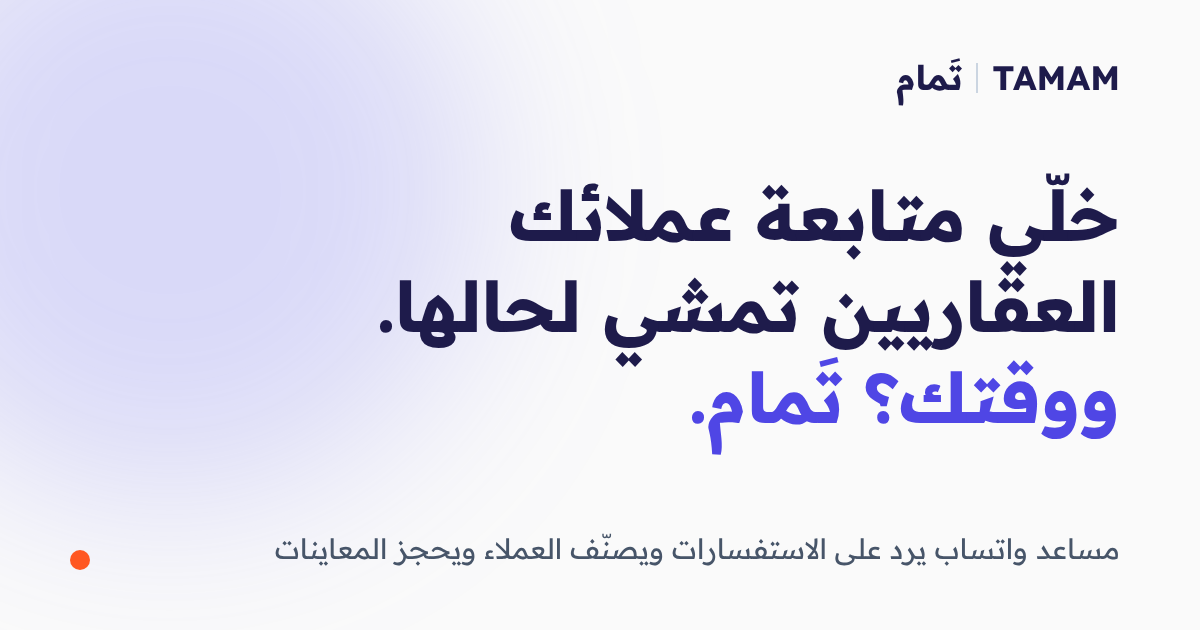
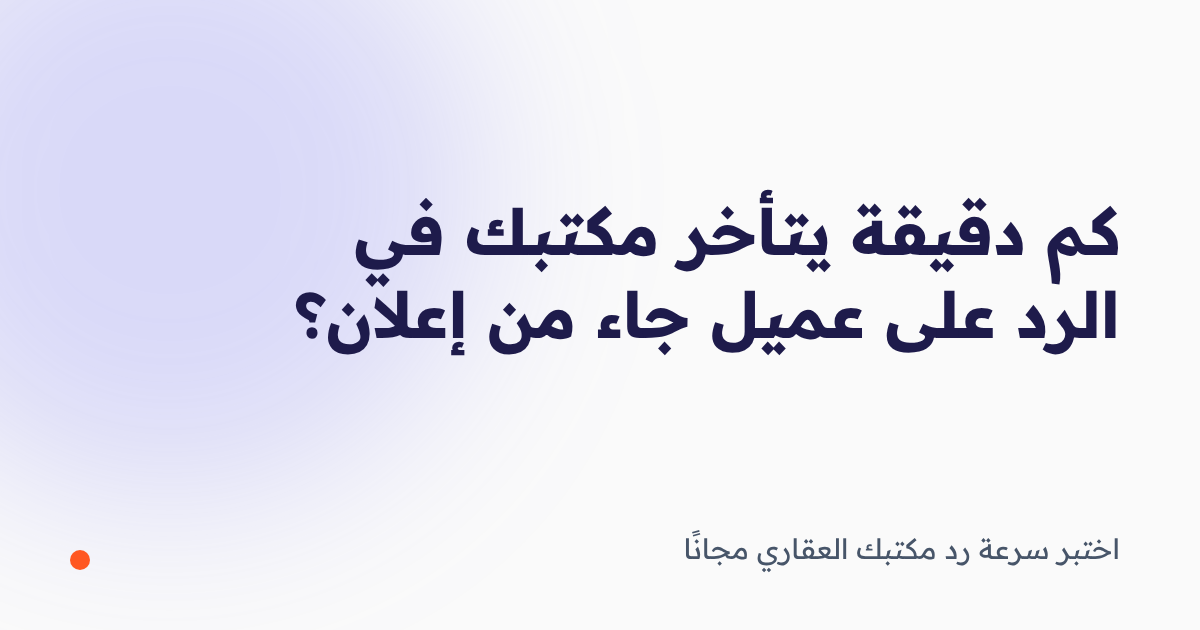
feat(realestate): free response-time test page (speed-to-lead), unbranded; new FreeTestSection

diff --git a/src/niches.ts b/src/niches.ts
@@ -21,12 +21,28 @@ export interface WorkRow {
   ok: boolean;
 }
 
+export interface FreeTest {
+  title: string;
+  sub: string;
+  steps: { title: string; text: string }[];
+  office: { label: string; value: string; note: string };
+  system: { label: string; value: string; note: string };
+  cta: string;
+  note: string;
+}
+
 export interface NicheContent {
   id: NicheId;
   path: string;
   label: string;
   /** Hide the TAMAM brand everywhere on this page (for when there is no company yet). */
   unbranded?: boolean;
+  /** Overrides the main call-to-action label (hero + closing). */
+  primaryCta?: string;
+  /** Hero secondary link: scrolls to a section id instead of opening the solutions drawer. */
+  heroSecondary?: { label: string; target: string };
+  /** Optional "free test" section shown right after the hero. */
+  freeTest?: FreeTest;
   /** Internal note for the links page: who to send this niche to. */
   audience?: string;
   meta: { title: string; description: string; ogImage: string };
@@ -563,112 +579,131 @@ export const NICHES: Record<NicheId, NicheContent> = {
   realestate: {
     id: 'realestate',
     path: '/realestate',
-    label: 'عقارات',
+    label: 'مكاتب عقارية: اختبار سرعة الرد',
+    unbranded: true,
+    audience:
+      'ابعته لمكتب عقاري يدفع على إعلانات أو بوابات عقارية أو سناب، ويجيه عملاء على واتساب. أصعب نقطة هي إقناعه إن عنده مشكلة، فابدأ بعرض الاختبار المجاني وأعطه رقم زمن ردّه.',
     meta: {
-      title: 'TAMAM | تَمام — أتمتة متابعة العملاء للمكاتب العقارية',
+      title: 'اختبر سرعة رد مكتبك العقاري مجانًا',
       description:
-        'مساعد واتساب لمكتبك العقاري يرد على استفسارات العقارات، يصنّف العملاء، ويحجز مواعيد المعاينة — وفريقك يركّز على الصفقات.',
+        'نختبر مجانًا كم دقيقة ياخذ مكتبك يرد على عميل جاي من الإعلان، ونركّب نظامًا يرد خلال ثواني ويسلّم الوسيط عميلًا جاهزًا.',
       ogImage: '/og-realestate.png',
     },
+    primaryCta: 'اختبر مكتبك مجانًا',
+    heroSecondary: { label: 'كيف يشتغل الاختبار؟', target: 'free-test' },
     hero: {
-      line1: 'خلّي متابعة عملائك العقاريين تمشي لحالها.',
-      sub: 'مساعد على واتساب يرد على استفسارات العقارات، يسأل العميل عن ميزانيته ومتطلباته، ويحجز موعد المعاينة — وفريقك يركّز على الصفقات.',
+      line1: 'كم دقيقة يتأخر مكتبك في الرد على عميل جاء من إعلان؟',
+      sub: 'دفعت على الإعلان وجاك العميل، لا تخسره بالرد المتأخر. نختبر لك سرعة ردّكم مجانًا ونعطيك الرقم الحقيقي، وبعدها تقرر.',
     },
     chat: {
       contactName: 'مكتب الأفق',
       avatarLetter: 'أ',
-      clock: '8:50',
-      bookedTitle: 'تم حجز المعاينة',
-      bookedSub: 'وفريقك ما تدخّل',
+      clock: '11:47',
+      bookedTitle: 'وصل الملخص للوسيط',
+      bookedSub: 'إيجار، الملقا، حتى ٥٠ ألف',
       messages: [
-        { from: 'customer', text: 'السلام عليكم، أبغى شقة للإيجار في الرياض، ٣ غرف', time: '٨:٥٠' },
-        { from: 'agent', text: 'وعليكم السلام! عندنا خيارات مناسبة. وش ميزانيتك السنوية تقريبًا؟', time: '٨:٥٠' },
-        { from: 'customer', text: '٤٠ ألف', time: '٨:٥١' },
-        { from: 'agent', text: 'اخترت لك ٣ شقق ضمن ميزانيتك ✓ وحجزنا لك معاينة بكرة ٥:٠٠ مساءً.', time: '٨:٥١' },
+        { from: 'customer', text: 'السلام عليكم، الشقة اللي بالإعلان في الملقا لسا متاحة؟', time: '١١:٤٧' },
+        { from: 'agent', text: 'وعليكم السلام! أهلًا فيك. تبغى إيجار أو شراء؟ وأي حي وكم ميزانيتك؟', time: '١١:٤٧' },
+        { from: 'customer', text: 'إيجار، الملقا، حدود ٥٠ ألف', time: '١١:٤٨' },
+        { from: 'agent', text: 'تم ✓ أرسلت طلبك للوسيط وبيتواصل معك أول ما يتوفر.', time: '١١:٤٨' },
       ],
     },
-    ribbon: ['ردود الاستفسارات', 'تصنيف العملاء', 'حجز المعاينات', 'متابعة العملاء'],
+    ribbon: ['رد خلال ثواني', 'تأهيل العميل', 'ملخص للوسيط', 'تقرير أسبوعي'],
+    freeTest: {
+      title: 'اختبار سرعة الرد: مجاني، وبالرقم',
+      sub: 'ما نشرح لك إن عندك مشكلة، نوريك الرقم.',
+      steps: [
+        { title: 'تعطينا رقم مكتبك', text: 'رقم واتساب مكتبك، أو رابط الإعلان اللي تدفع عليه.' },
+        { title: 'نرسل استفسارًا تجريبيًا', text: 'رسالة مثل أي عميل جاي من الإعلان، بموافقتك، بوقت عادي ووقت متأخر.' },
+        { title: 'نعطيك الرقم', text: 'كم دقيقة أخذ مكتبك ليرد، وكم ثانية ياخذ النظام.' },
+      ],
+      office: { label: 'رد مكتبك الحالي', value: '؟', note: 'نقيسه لك في الاختبار' },
+      system: { label: 'رد النظام', value: 'ثواني', note: 'بأي ساعة، ليل أو نهار' },
+      cta: 'اختبر مكتبك مجانًا',
+      note: 'الاختبار مجاني، وما تدفع شي مقابله.',
+    },
     pain: {
-      title: 'الاستفسارات والمتابعة… تاخذ وقتك من الصفقات',
-      sub: 'نفس الأسئلة عن الأسعار والتفاصيل، وعملاء يسألون وما أحد يتابعهم، وبيانات مبعثرة بين الرسائل والاتصالات — تفاصيل صغيرة تتراكم وتضيّع صفقات.',
-      closing: 'تحوّل هذي الخطوات المتكررة إلى نظام يمشي مع مكتبك.',
+      title: 'دفعت على الإعلان… وخسرت العميل بالرد المتأخر',
+      sub: 'الناس تسأل من الإعلانات والبوابات العقارية وسناب، بس الوسطاء مشغولين بمعاينات واتصالات، فيتأخر الرد. المكتب دفع ثمن العميل وخسره.',
+      closing: 'نحوّل هذي الخطوات المتكررة إلى نظام يرد بسرعة ويسلّم الوسيط عميلًا جاهزًا.',
       items: {
         'endless-messages': {
-          title: 'استفسارات ما تخلص',
-          description: 'أسئلة متكررة عن الأسعار والمواصفات والمواقع، والرد يتأخر لما ينشغل الفريق.',
-          indicator: 'استفسارات متكررة',
+          title: 'الرد يتأخر لأن الوسيط في معاينة',
+          description: 'الوسطاء بين معاينات واتصالات، والرسالة تنتظر ساعات.',
+          indicator: 'رد متأخر',
         },
         'missed-followups': {
-          title: 'عملاء يسألون وما ينتابعون',
-          description: 'عميل مهتم سأل عن عقار وما انتابع معه، فاشترى من مكتب ثاني.',
-          indicator: 'فرص معلّقة',
+          title: 'العميل يروح لمكتب ثاني',
+          description: 'دفعت على الإعلان وجاك العميل، وتأخر الرد فراح لمكتب أسرع.',
+          indicator: 'عميل ضايع',
         },
         'repetitive-tasks': {
-          title: 'ترتيب المعاينات يدويًا',
-          description: 'التنسيق مع كل عميل على موعد المعاينة والتذكير به يدويًا.',
-          indicator: 'جدولة يدوية',
+          title: 'عملاء ما كمّلوا وما أحد تابعهم',
+          description: 'عميل سأل وانقطع، وما أحد تابع معه ولا عرف وش يبغى.',
+          indicator: 'متابعة ناقصة',
         },
       },
     },
-    packages: {
-      'crm-inquiries': {
-        name: 'استقبال الاستفسارات وتصنيف العملاء',
-        promise: 'كل استفسارات العملاء ومتطلباتهم في مكان واحد، بدل التشتت بين واتساب والاتصالات.',
-        features: [
-          'رد تلقائي على أسئلة العقارات المتاحة والأسعار والمواقع.',
-          'جمع متطلبات العميل (النوع، المنطقة، الميزانية).',
-          'تصنيف العملاء (جاد، مهتم، يتصفح) لتحديد الأولوية.',
-          'تنبيه للمسوّق لو العميل جاهز لمعاينة أو تفاوض.',
-        ],
-        badge: 'تنظيم العملاء',
-      },
-      'appointments-whatsapp-offers': {
-        name: 'حجز المعاينات والمتابعة',
-        promise: 'العميل يحجز معاينته من الواتساب، ويوصله تذكير ومتابعة بعدها.',
-        features: [
-          'حجز مواعيد المعاينة حسب جدول المسوّقين.',
-          'تذكير العميل بالمعاينة حسب الوقت المتفق عليه.',
-          'رسالة متابعة بعد المعاينة لمعرفة رأي العميل.',
-          'إرسال عقارات جديدة تناسب متطلبات العميل عبر واتساب.',
-        ],
-        badge: 'معاينات ومتابعة',
-      },
-      'custom-automation': {
-        promise: 'عندك شغل متكرر في المكتب العقاري وما لقيت له حل جاهز؟ نبني لك نظام يناسب طريقة شغلك.',
-        features: [
-          'فهم سير العمل والمهام المتكررة في المكتب.',
-          'اقتراح أتمتة مخصصة وفق الاحتياج الذي يتم الاتفاق عليه.',
-          'تحديد نطاق التنفيذ والتكلفة بعد فهم المطلوب.',
-        ],
-      },
+    packages: {},
+    packagesHeader: {
+      title: 'النظام اللي يمسك العميل قبل ما يروح',
+      sub: 'ما تشتري برنامج، تشتري إن ما تخسر عميل دفعت ثمنه.',
     },
+    packagesList: [
+      {
+        id: 'realestate-speed-to-lead',
+        name: 'نظام الرد السريع وتأهيل العملاء',
+        badge: 'رد خلال ثواني',
+        promise:
+          'نركّب نظامًا (n8n مع واتساب الرسمي) يرد على العميل خلال ثواني بأي وقت، ويسأله الأسئلة الأساسية، ويسلّم الوسيط ملخصًا جاهزًا.',
+        featuresTitle: 'اللي يسوّيه النظام:',
+        features: [
+          'يرد خلال ثواني بأي وقت، ليل أو نهار.',
+          'يسأل العميل: إيجار ولا شراء؟ أي حي؟ كم ميزانيتك؟',
+          'يرسل للوسيط ملخصًا جاهزًا: «عميل يبغى إيجار في الملقا حتى ٥٠ ألف».',
+          'يتابع اللي ما كمّل المحادثة.',
+          'تقرير أسبوعي للمكتب.',
+          'مبني على n8n وواتساب بزنس API الرسمي.',
+        ],
+        ctaLabel: 'اختبر مكتبك مجانًا',
+        value: 'ما تخسر عميل دفعت ثمنه.',
+        price: '٢٠٠ دولار',
+        priceNote: 'رسوم إعداد لمرة وحدة، غير شامل رسوم رسائل واتساب',
+        duration: '٧ أيام',
+        durationNote: 'من الاتفاق لين التشغيل',
+        trial: {
+          title: 'ابدأ بالاختبار المجاني',
+          text: 'نقيس سرعة ردّكم أولًا بدون مقابل، وبعدها تقرر.',
+        },
+      },
+    ],
     work: {
       real: false,
-      title: 'كذا يبان تصنيف عملائك.',
-      sub: 'كل استفسار يجي من الواتساب يتسجل ويتصنّف حسب جدية العميل، والفريق يشوف أولوياته في مكان واحد.',
-      cardTitle: 'لوحة العملاء والمعاينات',
-      desc: 'العميل يسأل عن عقار من الواتساب، والنظام يجمع متطلباته ويصنّفه ويحجز له معاينة.',
+      title: 'كذا يوصل الوسيط عميل جاهز.',
+      sub: 'كل رسالة تتحول لملخص واضح قبل ما يتصل الوسيط.',
+      cardTitle: 'ملخص العميل للوسيط',
+      desc: 'العميل يسأل من الإعلان، والنظام يسأله ويلخّص طلبه، والوسيط يستلم عميلًا جاهزًا بدل رسالة خام.',
       facts: [
-        'العميل يسأل من الواتساب ويوصله رد فوري.',
-        'متطلبات العميل وميزانيته تنجمع وتتصنّف لحالها.',
-        'تذكير بالمعاينة ومتابعة بعدها.',
+        'العميل يرد عليه النظام خلال ثواني حتى بالليل.',
+        'الأسئلة الأساسية (النوع، الحي، الميزانية) تنسأل لحالها.',
+        'الوسيط يستلم ملخصًا جاهزًا، وتوصلك تقارير أسبوعية.',
       ],
-      listTitle: 'معاينات اليوم',
+      listTitle: 'ملخصات اليوم',
       rows: [
-        { time: '١٠:٠٠', label: 'شقة للإيجار', status: 'مؤكد', ok: true },
-        { time: '١٢:٣٠', label: 'فيلا للبيع', status: 'مؤكد', ok: true },
-        { time: '٤:٠٠', label: 'أرض سكنية', status: 'بانتظار التأكيد', ok: false },
-        { time: '٥:٣٠', label: 'مكتب تجاري', status: 'مؤكد', ok: true },
+        { time: '١١:٤٨', label: 'إيجار، الملقا', status: 'حتى ٥٠ ألف', ok: true },
+        { time: '٢:١٠', label: 'شراء، النرجس', status: 'حتى ١٫٢ مليون', ok: true },
+        { time: '٤:٣٠', label: 'إيجار، العليا', status: 'ينتظر الميزانية', ok: false },
+        { time: '٦:٠٥', label: 'شراء، حطين', status: 'جاهز للمعاينة', ok: true },
       ],
-      caption: FACTS_ILLUSTRATIVE_SUFFIX,
+      caption: 'تصوّر توضيحي لملخصات العملاء',
     },
     closing: {
-      title: 'جاهز تخلّي متابعة عملائك العقاريين تمشي لحالها؟',
-      sub: 'قل لنا كيف تمشي الاستفسارات والمعاينات عندك اليوم، ونساعدك تكتشف وين ممكن الأتمتة توفر وقت فريقك.',
+      title: 'جاهز تعرف كم دقيقة يخسّرك ردّك؟',
+      sub: 'نختبر سرعة رد مكتبك مجانًا ونعطيك الرقم الحقيقي.',
     },
-    waMessage: 'هلا تَمام، عندي مكتب عقاري وأبغى أكلمكم عن أتمتة الاستفسارات والمعاينات.',
+    waMessage: 'هلا، عندي مكتب عقاري وأبغى أختبر سرعة الرد على عملاء الإعلانات.',
     outreach:
-      'هلا {contact}، أنا يحيى من تَمام. جهّزت لكم صفحة توضح كيف نخلّي الرد على استفسارات العقارات وحجز المعاينات يمشون تلقائيًا عبر واتساب. تفضلوا الرابط: {url}',
+      'هلا {contact}، أنا يحيى. أقدر أختبر لكم مجانًا كم دقيقة ياخذ مكتبكم يرد على عميل جاي من الإعلان وأعطيكم الرقم الحقيقي. هذي الصفحة توضح الفكرة: {url}',
   },
 
   store: {

diff --git a/src/components/FreeTestSection.tsx b/src/components/FreeTestSection.tsx
@@ -1,0 +1,88 @@
+import React from 'react';
+import { ArrowLeft, Clock, Zap } from 'lucide-react';
+import { ScrollReveal } from './ScrollReveal';
+import { getNiche } from '../niches';
+
+interface FreeTestSectionProps {
+  onOpenInquiry: () => void;
+}
+
+/** "Show the number instead of explaining the problem": the free test is the heart of this page. */
+export const FreeTestSection: React.FC<FreeTestSectionProps> = ({ onOpenInquiry }) => {
+  const test = getNiche().freeTest;
+  if (!test) return null;
+
+  return (
+    <section
+      id="free-test"
+      aria-labelledby="free-test-title"
+      className="relative z-10 w-full scroll-mt-6 border-t border-slate-200/50 px-4 py-16 sm:px-8 sm:py-24 md:px-12 lg:px-16 xl:px-20"
+    >
+      <div className="mx-auto w-full max-w-7xl">
+        <ScrollReveal>
+          <div className="mx-auto mb-12 max-w-3xl text-center sm:mb-16">
+            <h2
+              id="free-test-title"
+              className="mb-4 font-heading text-3xl font-black leading-[1.25] text-slate-950 text-balance sm:text-4xl lg:text-5xl"
+            >
+              {test.title}
+            </h2>
+            <p className="text-base leading-relaxed text-slate-600 sm:text-lg">{test.sub}</p>
+          </div>
+        </ScrollReveal>
+
+        <ScrollReveal delay={120}>
+          <div className="grid items-stretch gap-8 lg:grid-cols-[1.1fr_0.9fr] lg:gap-10">
+            {/* Steps */}
+            <ol className="space-y-4">
+              {test.steps.map((step, i) => (
+                <li
+                  key={step.title}
+                  className="flex items-start gap-4 rounded-3xl border border-slate-200/80 bg-white p-5 shadow-xs sm:p-6"
+                >
+                  <span className="flex h-11 w-11 shrink-0 items-center justify-center rounded-2xl bg-indigo-600 font-heading text-lg font-bold text-white">
+                    {['١', '٢', '٣'][i]}
+                  </span>
+                  <div>
+                    <h3 className="font-heading text-lg font-bold text-slate-950 sm:text-xl">{step.title}</h3>
+                    <p className="mt-1 text-[15px] leading-7 text-slate-600">{step.text}</p>
+                  </div>
+                </li>
+              ))}
+            </ol>
+
+            {/* The number */}
+            <div className="flex flex-col rounded-3xl border border-slate-200/80 bg-white p-5 shadow-xs sm:p-6">
+              <div className="grid flex-1 grid-cols-2 gap-4">
+                <div className="flex flex-col items-center justify-center rounded-2xl border-2 border-dashed border-slate-300 bg-slate-50/60 p-5 text-center">
+                  <Clock className="mb-3 h-6 w-6 text-slate-400" />
+                  <span className="mb-1 text-xs font-semibold text-slate-500">{test.office.label}</span>
+                  <span className="font-heading text-5xl font-black leading-none text-slate-400 sm:text-6xl">
+                    {test.office.value}
+                  </span>
+                  <span className="mt-3 text-xs leading-5 text-slate-500">{test.office.note}</span>
+                </div>
+                <div className="flex flex-col items-center justify-center rounded-2xl bg-gradient-to-br from-indigo-600 to-violet-600 p-5 text-center text-white shadow-lg shadow-indigo-500/25">
+                  <Zap className="mb-3 h-6 w-6 text-amber-300" />
+                  <span className="mb-1 text-xs font-semibold text-indigo-100">{test.system.label}</span>
+                  <span className="font-heading text-4xl font-black leading-none sm:text-5xl">{test.system.value}</span>
+                  <span className="mt-3 text-xs leading-5 text-indigo-100/90">{test.system.note}</span>
+                </div>
+              </div>
+
+              <button
+                type="button"
+                onClick={onOpenInquiry}
+                className="group mt-5 flex w-full cursor-pointer items-center justify-center gap-2.5 rounded-full bg-gradient-to-r from-[#FF5722] via-[#F4511E] to-[#E64A19] px-8 py-3.5 text-base font-semibold text-white shadow-lg shadow-orange-500/25 transition-all duration-200 hover:-translate-y-0.5 hover:shadow-orange-500/40 focus:outline-none focus-visible:ring-4 focus-visible:ring-orange-400/50"
+              >
+                <span>{test.cta}</span>
+                <ArrowLeft className="h-4 w-4 transition-transform duration-200 group-hover:-translate-x-1" />
+              </button>
+              <p className="mt-3 text-center text-xs text-slate-500">{test.note}</p>
+            </div>
+          </div>
+        </ScrollReveal>
+      </div>
+    </section>
+  );
+};

diff --git a/src/components/HeroSection.tsx b/src/components/HeroSection.tsx
@@ -42,16 +42,22 @@ export const HeroSection: React.FC<HeroSectionProps> = ({ onOpenInquiry, onOpenS
               onClick={onOpenInquiry}
               className="group flex cursor-pointer items-center justify-center gap-2.5 rounded-full bg-gradient-to-r from-[#FF5722] via-[#F4511E] to-[#E64A19] px-8 py-3.5 text-base font-semibold text-white shadow-lg shadow-orange-500/25 transition-all duration-200 hover:-translate-y-0.5 hover:shadow-orange-500/40 focus:outline-none focus-visible:ring-4 focus-visible:ring-orange-400/50 active:translate-y-0"
             >
-              <span>كلّمنا عن شغلك</span>
+              <span>{niche.primaryCta ?? 'كلّمنا عن شغلك'}</span>
               <ArrowLeft className="h-4 w-4 transition-transform duration-200 group-hover:-translate-x-1" />
             </button>
 
             <button
               type="button"
-              onClick={onOpenSolutions}
+              onClick={() => {
+                if (niche.heroSecondary) {
+                  document.getElementById(niche.heroSecondary.target)?.scrollIntoView({ behavior: 'smooth' });
+                } else {
+                  onOpenSolutions();
+                }
+              }}
               className="group flex cursor-pointer items-center justify-center gap-1.5 rounded-lg px-3 py-2 text-base font-medium text-slate-700 underline decoration-slate-300 underline-offset-8 transition-colors hover:text-slate-950 hover:decoration-slate-900 focus:outline-none focus-visible:ring-2 focus-visible:ring-indigo-500"
             >
-              <span>{niche.unbranded ? 'اكتشف الحلول' : 'اكتشف حلول TAMAM'}</span>
+              <span>{niche.heroSecondary?.label ?? (niche.unbranded ? 'اكتشف الحلول' : 'اكتشف حلول TAMAM')}</span>
               <ArrowUpRight className="h-4 w-4 text-slate-400 group-hover:text-slate-900" />
             </button>
           </div>

diff --git a/src/components/ClosingCtaSection.tsx b/src/components/ClosingCtaSection.tsx
@@ -56,7 +56,7 @@ export const ClosingCtaSection: React.FC<ClosingCtaSectionProps> = ({ onOpenInqu
                 onClick={onOpenInquiry}
                 className="w-full sm:w-auto px-8 py-4 text-base font-semibold text-white bg-gradient-to-r from-[#FF5722] via-[#F4511E] to-[#E64A19] hover:from-[#F4511E] hover:to-[#D84315] rounded-full shadow-lg shadow-orange-500/25 hover:shadow-orange-500/40 hover:-translate-y-0.5 active:translate-y-0 transition-all duration-200 cursor-pointer focus:outline-none focus-visible:ring-4 focus-visible:ring-orange-400/50 flex items-center justify-center gap-2.5 group/btn"
               >
-                <span>كلّمنا عن شغلك</span>
+                <span>{niche.primaryCta ?? 'كلّمنا عن شغلك'}</span>
                 <ArrowLeft className="w-4 h-4 transition-transform duration-200 group-hover/btn:-translate-x-1" />
               </button>
             </div>

diff --git a/src/App.tsx b/src/App.tsx
@@ -8,6 +8,7 @@ import { getNiche } from './niches';
 import { Navbar } from './components/Navbar';
 import { HeroSection } from './components/HeroSection';
 import { WorkSection } from './components/WorkSection';
+import { FreeTestSection } from './components/FreeTestSection';
 import { PrivacyModal } from './components/PrivacyModal';
 import { WhatsAppFab } from './components/WhatsAppFab';
 import { InquiryModal } from './components/InquiryModal';
@@ -119,6 +120,9 @@ export default function App() {
           </div>
         </div>
       </div>
+
+      {/* Free test (only on niches that sell through it) */}
+      <FreeTestSection onOpenInquiry={() => setIsInquiryOpen(true)} />
 
       {/* 4. Section 1: Repetitive Tasks & Pain Points */}
       <PainPointsSection onLearnMore={() => setIsSolutionsOpen(true)} />
